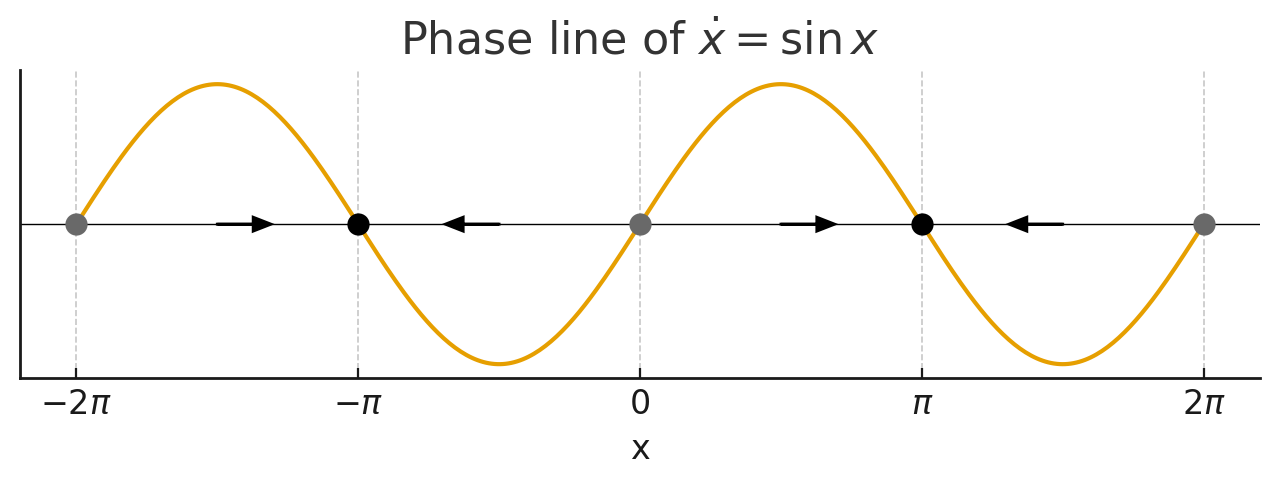
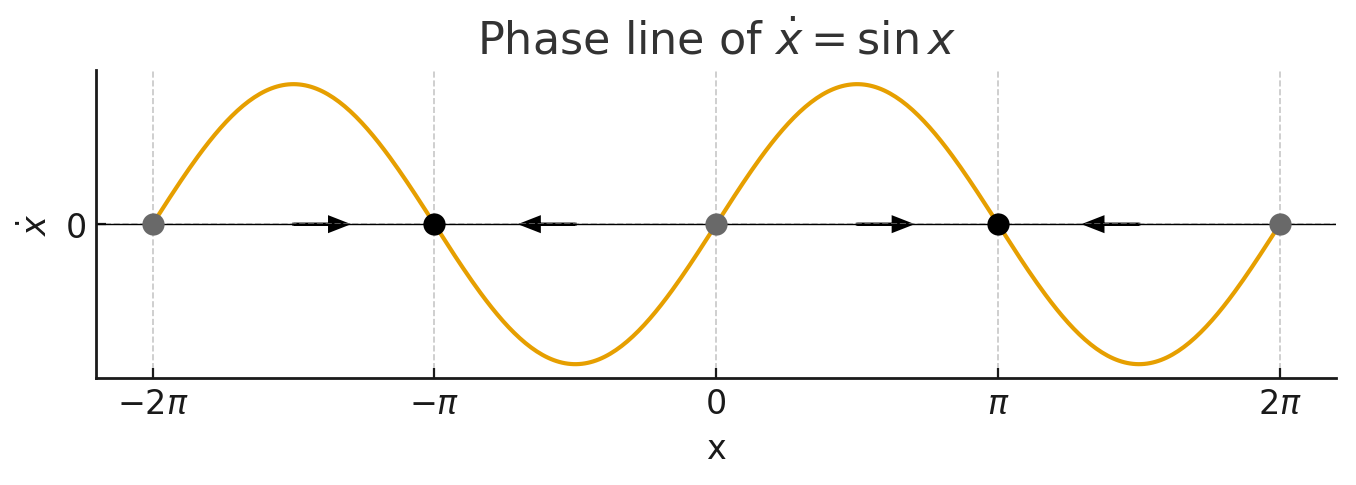
a

diff --git a/Physics/NonlinearDynamics/strogatz_sec2.md b/Physics/NonlinearDynamics/strogatz_sec2.md
@@ -171,6 +171,31 @@ $$
 
 我々の目的は解を得ないで上記問題に答えることなので，今回は解法は省く．
 
-さて，ここでほしい情報は
+さて，ここでほしい情報は結局，ある $x_0$ から動き出した $x$ がどのような軌道を描くのかという情報である．そこで $x$ を仮想的な粒子の位置と考え， $\dot{x}$ をその速度とする．1次の微分方程式であったので，この 2 変数を直交軸として空間を貼ると，$\dot{x}=\sin x$ はこの直線上のベクトル場となる．図示すると以下のようになる．
 
 <center><img src="../figures/strogatz2-1-1.png"></center>
+
+ただし，$x$ 軸上の矢印はそれぞれの位置で対応するベクトルの向きを表している．正の速度なら進み，負の速度なら後退する．より実践的には向きだけでなく大きさも区別するべきだが，この場合は明らかなため省略した (縦軸方向に小さい時は速度が低い，つまり矢印も短くなる)．
+
+重要なのは $x \equiv 0\mod \pi$，すなわち $\dot{x}=0$ の各点の区別である．これらの点は微分方程式の平衡解 (そこからスタートするとずっとそこに留まる) に対応しており，力学系，幾何学の言葉では**固定点 (fixed point)**という．
+
+固定点の振る舞いを観察するために周辺の矢印を見ると，両側から挟まれる点と離れていく点の 2 種類があることが分かる．黒丸で表したようにその付近の $x$ (微小摂動 $dx$) が吸い寄せられる $\pi$ などの固定点 (ベクトル場での流れが引き込まれる) は，**安定固定点・アトラクター・シンク**などと称される．逆に灰色の流れが離れていくような固定点を**不安定固定点・リペラー・ソース**などと呼ぶ．
+
+以降，固定点はその安定性に関わらず $f(x*)$ と示す．$x*$ を求めるには， $\dot{x}=0$，つまり $f(x*)=0$ を解けば良い．
+
+
+### 2.2-2.4. 線形安定性解析
+
+#### 固定点の安定性
+固定点が安定か不安定か，すなわち矢印の向きは重要な定性的情報の一つである．しかし $f(x*)=0$ を解くだけでは区別がつかない．たとえば先の振り子の例では，解は $k\pi, \forall k\in \mathbb{Z}$ であるが，どれが安定かは分からない．そこでここでは，安定性についてもう少し細かく考えることで，図を描く前から情報を得ることを目指す．
+
+改めて先程の図
+
+<center><img src="../figures/strogatz2-1-1.png"></center>
+
+を考えると，与えられた微分方程式の形によらず相図においては $\dot{x}$ が正の値を取る時は右に，つまり $x$ の値は時間変化に伴って大きくなっていくのに対し，$\dot{x}$ が負の値を取る間は $x$ の値は時間変化に伴って小さくなっていくことが分かる．つまり **固定点での傾き $f'(x*)$ が負の場合，固定点は安定である**ことがわかる．**逆に正の傾きであれば固定点は不安定**である．
+
+#### 大域安定，局所安定
+もっとも，安定や不安定というのが必ず成り立つのは十分に小さい摂動 (横方向のズレ) に対してのみである．先の例でも，$+0.001\pi$ の摂動を与えられた安定固定点は元に戻るが，$+1.001\pi$ されてしまえば不安定固定点をも飛び越えてしまうので，その後は離れていくことが分かる．一般に，2つ以上の固定点を持つ場合には安定性の議論は十分に狭い範囲 (他の固定点までの範囲) でのみ成り立つ．
+
+相空間内の全ての初期状態から開始した (つまり，あらゆる摂動に対し) 軌道が近付く唯一の安定固定点を**大域的に安定**と言い，そうでない**安定固定点は局所的に安定**という．振り子の例は複数の固定点が存在するため，ここまでの議論を踏まえると固定点 $k\pi, \forall k\in \mathbb{Z}$ 
